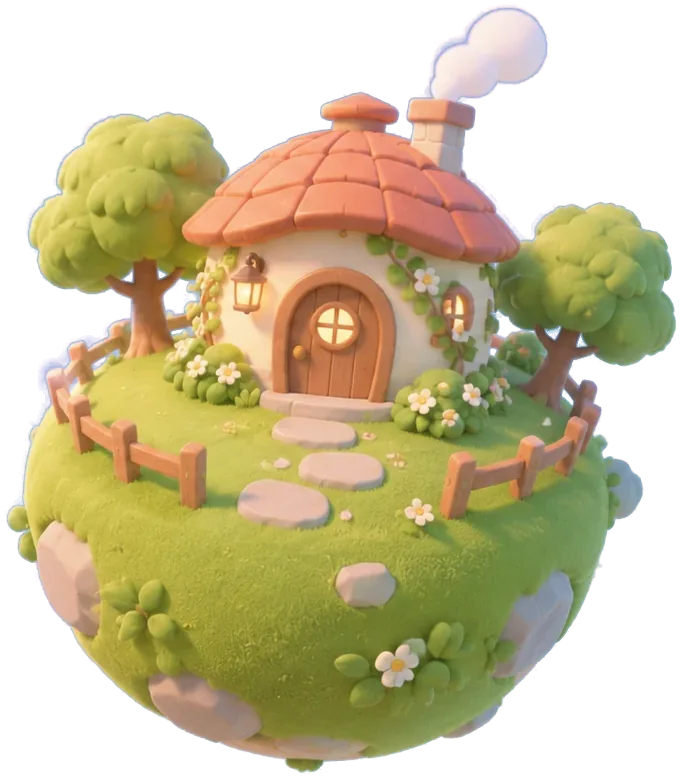
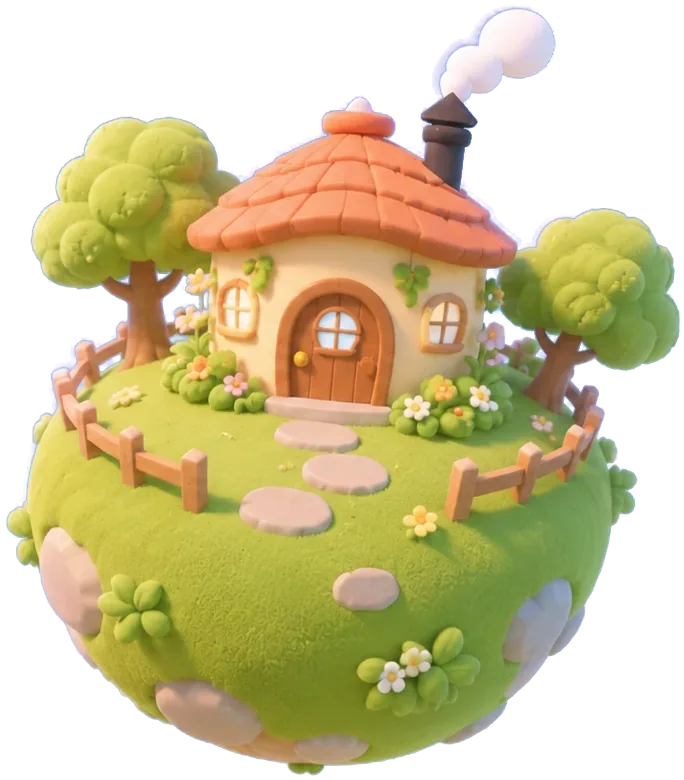
Loader: final planet art (dark chimney house), yellow sprout, lighter tagline
Swap the planet cut-out for the approved reference whose chimney matches
the in-game house. Title sprout becomes two yellow leaves, the swoosh
loses its sparkle, and the tagline and tips use Fredoka 400.

Claude-Session: https://claude.ai/code/session_01CNaBwJjp272ttuRXHhi98K

diff --git a/index.html b/index.html
@@ -1,9 +1,9 @@
 <!doctype html><html lang="en"><head><meta charset="utf-8"><meta name="viewport" content="width=device-width,initial-scale=1,maximum-scale=1,user-scalable=no,viewport-fit=cover"><meta name="mobile-web-app-capable" content="yes"><meta name="apple-mobile-web-app-capable" content="yes"><meta name="theme-color" content="#7ea8de"><title>Tiny Planet</title>
-<link rel="preload" href="./fonts/fredoka-600.woff2" as="font" type="font/woff2" crossorigin>
+<link rel="preload" href="./fonts/fredoka-600.woff2" as="font" type="font/woff2" crossorigin><link rel="preload" href="./fonts/fredoka-400.woff2" as="font" type="font/woff2" crossorigin>
 <link rel="preload" href="./loader/planet.webp" as="image" type="image/webp" fetchpriority="high">
 <style>
 @font-face{font-family:TPSerif;src:url(./fonts/cormorant-500i.woff2) format("woff2");font-style:italic;font-weight:500;font-display:swap}
-@font-face{font-family:TPRound;src:url(./fonts/fredoka-600.woff2) format("woff2");font-weight:600;font-display:swap}
+@font-face{font-family:TPRound;src:url(./fonts/fredoka-600.woff2) format("woff2");font-weight:600;font-display:swap}@font-face{font-family:TPRound;src:url(./fonts/fredoka-400.woff2) format("woff2");font-weight:400;font-display:swap}
 @property --r{syntax:"<length>";inherits:false;initial-value:0px}
 /* loading screen: a daytime sky, the title card on the left, the planet floating on the right (stacked on portrait screens) */
 #ld{position:fixed;inset:0;z-index:50;overflow:hidden;display:flex;align-items:center;justify-content:center;gap:min(6vw,90px);padding:0 4vw;box-sizing:border-box;color:#fff;
@@ -14,22 +14,22 @@
 .bk{transition:transform 2.6s cubic-bezier(.3,0,.2,1)}
 .dr{animation:dr 19s ease-in-out infinite alternate}.dr.s{animation-duration:27s}@keyframes dr{to{transform:translateX(calc(28px*var(--s)))}}
 /* planet: the painted cut-out fades in once decoded, rises with progress and floats */
-#pw{position:relative;order:2;flex:0 0 auto;width:min(44vw,70vh);aspect-ratio:681/778;transition:transform 2.6s cubic-bezier(.3,0,.2,1)}
+#pw{position:relative;order:2;flex:0 0 auto;width:min(44vw,70vh);aspect-ratio:684/780;transition:transform 2.6s cubic-bezier(.3,0,.2,1)}
 #pw:before{content:"";position:absolute;inset:4% -6% -2%;border-radius:50%;background:radial-gradient(closest-side,#fffbe9b0,#fff6dc40 55%,#fff0 100%);animation:gl 6s ease-in-out infinite alternate}@keyframes gl{to{transform:scale(1.06);opacity:.75}}
 #pf{position:absolute;inset:0;animation:fl 7s ease-in-out infinite alternate}@keyframes fl{0%{transform:translateY(-1.2%) rotate(-1deg)}100%{transform:translateY(1.2%) rotate(1deg)}}
 #pi{position:absolute;inset:0;width:100%;height:100%;opacity:0;transform:scale(.94);transition:opacity 1.4s ease,transform 1.8s cubic-bezier(.2,.8,.2,1);filter:drop-shadow(0 18px 28px #3e5f9640)}#pi.in{opacity:1;transform:none}
 /* title card */
 #tx{position:relative;flex:0 1 auto;width:min(36vw,480px);text-align:center;transition:opacity 1.2s,transform 2s}
 #tt h1{position:relative;margin:0;font-weight:600;font-size:clamp(54px,7.4vw,128px);line-height:.92;letter-spacing:-.01em;text-shadow:0 2px 0 #d9e6f8,0 6px 26px #4d77b455}
-#tt h1 span{display:block}#tt h1 span:first-child{position:relative;display:inline-block}#tt .sp{position:absolute;left:-.02em;top:-.42em;width:.5em;height:.42em}
-#tt .sw{display:block;width:62%;height:auto;margin:.2em auto 0;overflow:visible}
-#tt p{margin:.9em 0 0;font-size:clamp(17px,1.6vw,26px);line-height:1.35;font-weight:600;letter-spacing:.01em;opacity:.95;text-shadow:0 1px 10px #4d77b455}
+#tt h1 span{display:block}#tt h1 span:first-child{position:relative;display:inline-block}#tt .sp{position:absolute;left:.02em;top:-.5em;width:.56em;height:.48em}
+#tt .sw{display:block;width:56%;height:auto;margin:.2em auto 0;overflow:visible}
+#tt p{margin:.9em 0 0;font-size:clamp(17px,1.6vw,26px);line-height:1.35;font-weight:400;letter-spacing:.01em;opacity:.95;text-shadow:0 1px 10px #4d77b455}
 #ft,#go{margin-top:clamp(26px,4.5vh,56px)}
 #ft{transition:opacity .8s}
 #bar{position:relative;height:clamp(14px,1.5vw,22px);border:2.5px solid #fff;border-radius:99px;overflow:hidden;box-shadow:0 2px 14px #4d77b433;background:#ffffff1f}
 #fill{position:absolute;inset:2px;border-radius:99px;background:linear-gradient(#ffe7a8,#f5cf7e);transform-origin:0 50%;transform:scaleX(0);transition:transform .5s ease-out}
 #st{display:block;margin-top:.9em;font-size:clamp(15px,1.3vw,20px);letter-spacing:.12em;opacity:.92;transition:opacity .6s}
-#tip{display:block;margin:.7em auto 0;max-width:30em;font-size:clamp(14px,1.15vw,18px);font-weight:600;letter-spacing:.01em;opacity:.78;transition:opacity .8s;min-height:2.6em;text-wrap:balance}#tip.h{opacity:0}
+#tip{display:block;margin:.7em auto 0;max-width:30em;font-size:clamp(14px,1.15vw,18px);font-weight:400;letter-spacing:.01em;opacity:.92;transition:opacity .8s;min-height:2.6em;text-shadow:0 1px 8px #4d77b466;text-wrap:balance}#tip.h{opacity:0}
 #go{position:absolute;left:50%;bottom:0;transform:translate(-50%,10px);opacity:0;pointer-events:none;font:inherit;font-size:clamp(20px,1.8vw,28px);color:#7a4a2e;background:linear-gradient(#fff8e6,#ffe7b4);border:0;border-radius:99px;padding:.55em 1.6em .6em;white-space:nowrap;cursor:pointer;box-shadow:0 4px 0 #e5b979,0 10px 26px #3e5f9640;transition:opacity 1.2s,transform 1.2s}
 #go.on{opacity:1;pointer-events:auto;transform:translate(-50%,-16px);animation:br 3.2s ease-in-out 1.2s infinite alternate}#go:hover,#go:focus-visible{background:linear-gradient(#fffdf4,#ffedc4)}#go:focus{outline:none}#go:focus-visible{outline:3px solid #fff;outline-offset:4px}
 #go small{display:block;font-size:.46em;letter-spacing:.2em;text-transform:uppercase;opacity:.6;margin-top:.2em}
@@ -53,10 +53,10 @@ html,body{overscroll-behavior:none}#ld{touch-action:none}
 <div class="lay bk" id="R2"><div class="lay dr"><svg viewBox="0 0 1600 1000" preserveAspectRatio="xMidYMid slice" aria-hidden="true"><g filter="url(#cb)" fill="url(#c2)" opacity=".8"><circle cx="1560" cy="820" r="150"/><circle cx="1390" cy="890" r="120"/><circle cx="1690" cy="720" r="130"/><rect x="1240" y="890" width="560" height="200"/></g></svg></div></div>
 <div class="lay bk" id="L1"><div class="lay dr s"><svg viewBox="0 0 1600 1000" preserveAspectRatio="xMidYMid slice" aria-hidden="true"><g filter="url(#cb)" fill="url(#c1)"><circle cx="-30" cy="930" r="170"/><circle cx="170" cy="990" r="140"/><circle cx="300" cy="1040" r="110"/><rect x="-200" y="980" width="600" height="200"/></g></svg></div></div>
 <div class="lay bk" id="R1"><div class="lay dr s"><svg viewBox="0 0 1600 1000" preserveAspectRatio="xMidYMid slice" aria-hidden="true"><g filter="url(#cb)" fill="url(#c1)"><circle cx="1620" cy="920" r="180"/><circle cx="1430" cy="990" r="140"/><circle cx="1300" cy="1050" r="110"/><rect x="1200" y="990" width="600" height="200"/></g></svg></div></div>
-<div id="pw"><div id="pf"><img id="pi" src="./loader/planet.webp" alt="" width="681" height="778" decoding="async" fetchpriority="high" draggable="false"></div></div>
+<div id="pw"><div id="pf"><img id="pi" src="./loader/planet.webp" alt="" width="684" height="780" decoding="async" fetchpriority="high" draggable="false"></div></div>
 <div id="tx">
-<div id="tt"><h1><span><svg class="sp" viewBox="0 0 62 52" aria-hidden="true"><path d="M31 52C31 40 30 33 28 26" fill="none" stroke="#b6c46c" stroke-width="5" stroke-linecap="round"/><path d="M28 27C18 30 4 26 2 12C16 6 27 14 28 27Z" fill="#c2cf78"/><path d="M30 25C34 12 46 4 60 8C58 22 44 28 30 25Z" fill="#b6c46c"/></svg>Tiny</span> <span>Planet</span></h1>
-<svg class="sw" viewBox="0 0 260 40" aria-hidden="true"><path d="M6 34C70 14 140 8 212 16" fill="none" stroke="#f6d98e" stroke-width="7" stroke-linecap="round"/><path d="M238 6L242 18L254 22L242 26L238 38L234 26L222 22L234 18Z" fill="#f6d98e"/></svg>
+<div id="tt"><h1><span><svg class="sp" viewBox="0 0 62 52" aria-hidden="true"><path d="M29 48C17 46 6 36 8 20C12 10 24 14 28 26C30 34 31 42 29 48Z" fill="#f4c95d"/><path d="M33 48C45 46 56 36 54 20C50 10 38 14 34 26C32 34 31 42 33 48Z" fill="#f4c95d"/><circle cx="50" cy="50" r="2.4" fill="#fff6dc"/></svg>Tiny</span> <span>Planet</span></h1>
+<svg class="sw" viewBox="0 0 260 40" aria-hidden="true"><path d="M8 32C70 6 180 4 252 24" fill="none" stroke="#f6d27a" stroke-width="7" stroke-linecap="round"/></svg>
 <p>A cozy little world<br>of everyday adventures</p></div>
 <div id="ft"><div id="bar"><i id="fill"></i></div><span id="st"><span id="sl">Gathering the scripts</span>…</span><span id="tip"></span></div>
 <button id="go">Enter the world<small>press any key</small></button>
